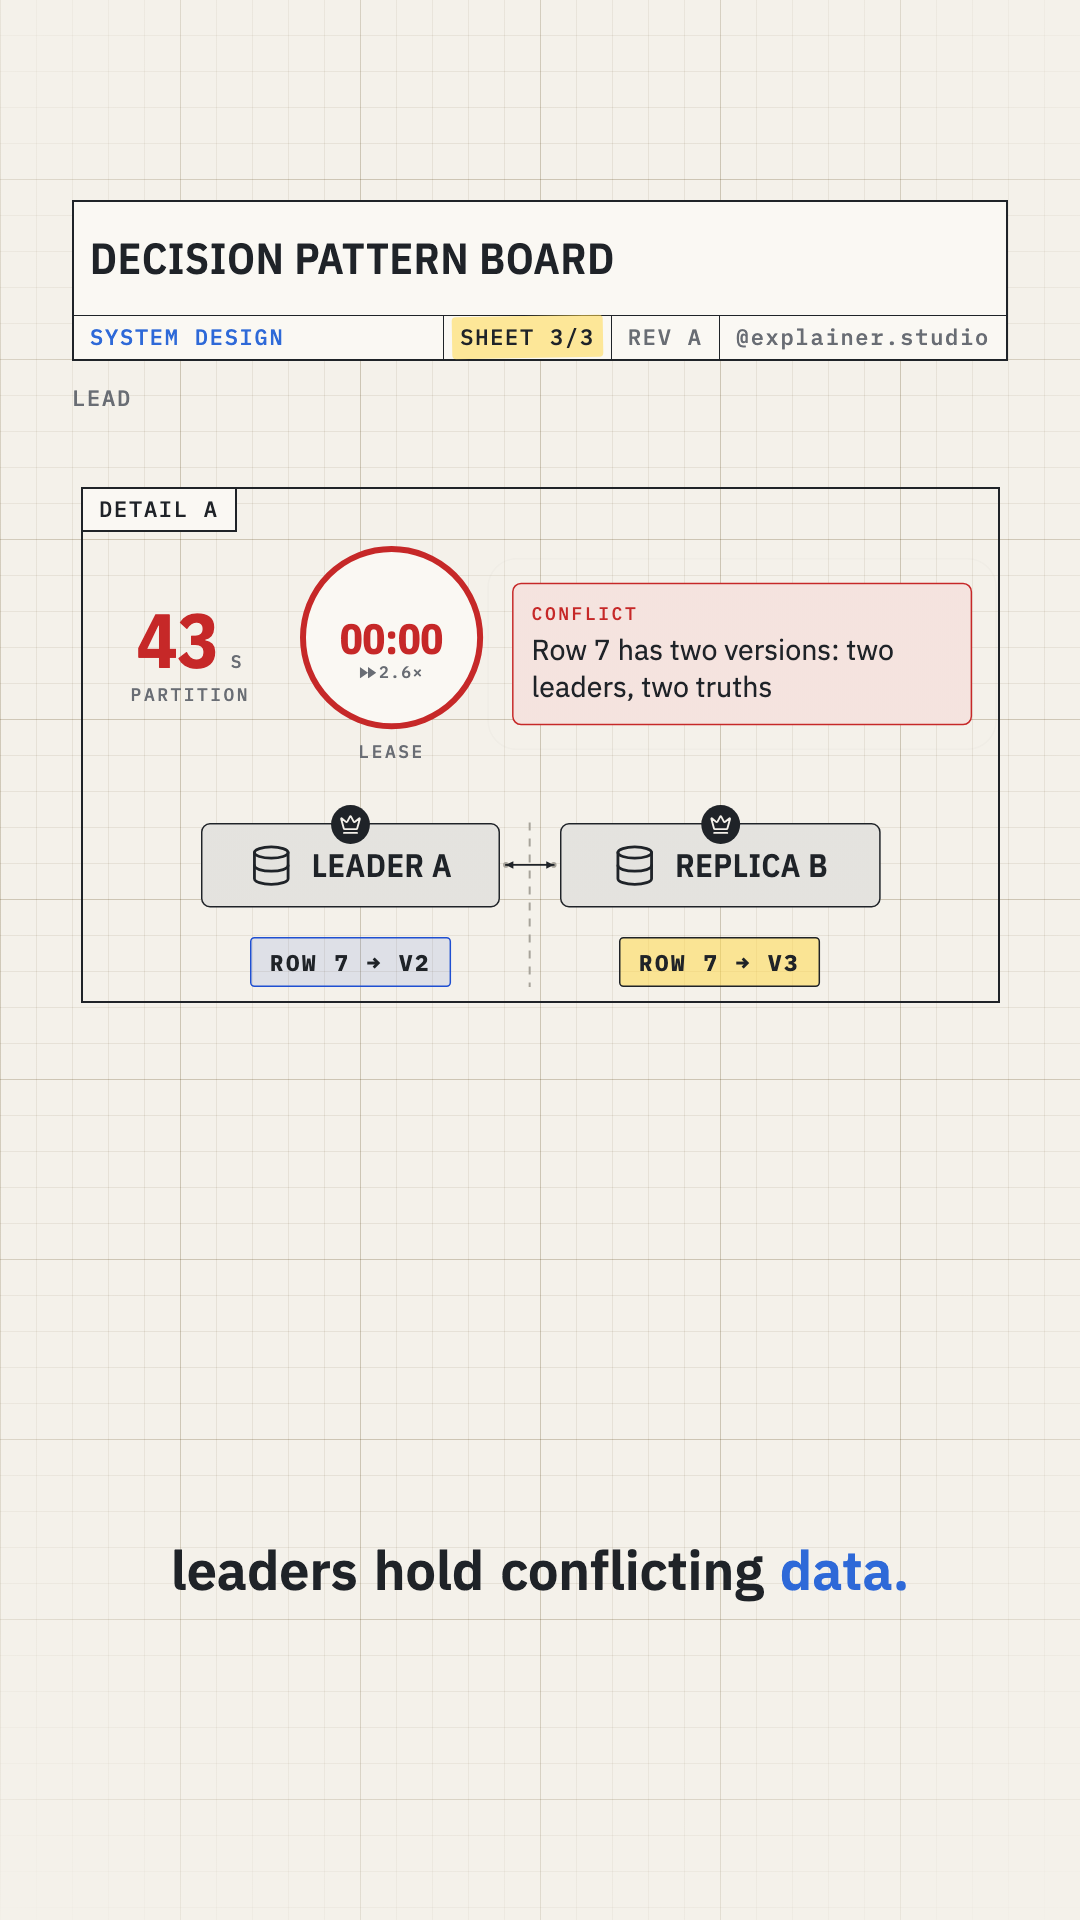
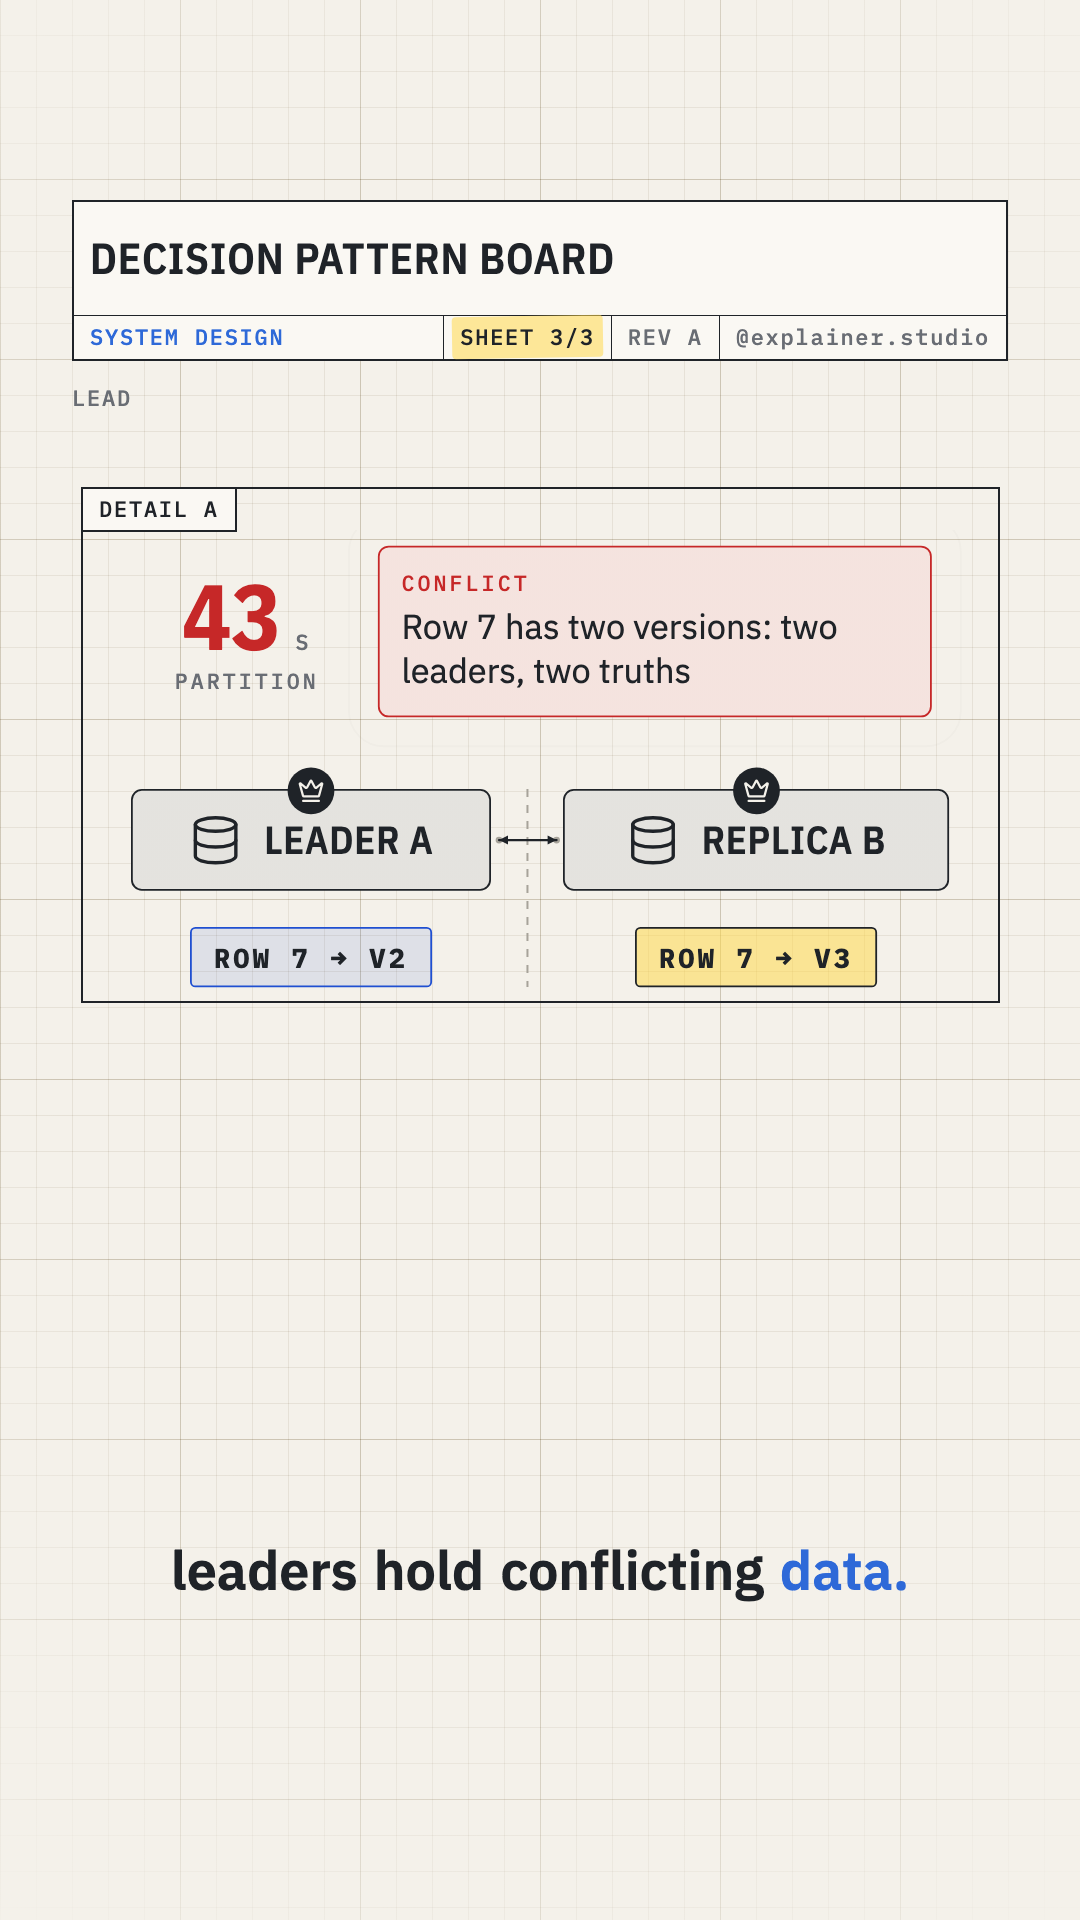
split_brain: card without lease
split_brain suits the card format when its optional lease timer is off, and is
full only with it (formatRule "the lease timer"). Measured on the decision
board: card scale 0.900 without the lease (no layout warnings) vs 0.747 with it
(below the 0.75 readable scale).

still:pattern-layouts draws a pattern whose board params do not suit a format
with its lighter variant (FORMAT_VARIANTS, checked to suit that format):
split_brain-layout-card.png now shows split_brain without the lease. Catalogue
regenerated; validation test for the rule.

Changed region(s): [[0.1222, 0.2812, 0.8861, 0.5312], [0.4278, 0.4062, 0.4583, 0.4375]]

diff --git a/packages/renderer/scripts/render-pattern-layout-stills.ts b/packages/renderer/scripts/render-pattern-layout-stills.ts
@@ -1,7 +1,11 @@
 import { mkdirSync } from 'node:fs';
 import { dirname, resolve } from 'node:path';
 import { fileURLToPath } from 'node:url';
-import { VIDEO_FORMATS } from '@explainer-studio/shared';
+import {
+  VIDEO_FORMATS,
+  type RenderableVideoSpec,
+  type VideoFormat,
+} from '@explainer-studio/shared';
 import { bundle } from '@remotion/bundler';
 import { renderStill, selectComposition } from '@remotion/renderer';
 import {
@@ -12,6 +16,7 @@ import {
 } from '../fixtures/index.ts';
 import { DEFAULT_REGISTRIES } from '../src/catalog/registries.ts';
 import { listPatterns } from '../src/patterns/registry.ts';
+import { patternFormats } from '../src/patterns/types.ts';
 import { settledPatternFrame } from '../src/stills/pattern-sheet.ts';
 
 /**
@@ -19,7 +24,42 @@ import { settledPatternFrame } from '../src/stills/pattern-sheet.ts';
  * as arguments), in both formats: the pattern's beat on its pattern board through the real layout
  * engine (`VideoFromSpec` → `BeatScene`: placement, camera, routing, HUD), at its settled moment
  * (`settledPatternFrame`). The per-anchor sheets (`still:patterns`) stay the record of timing.
+ *
+ * A pattern whose board params do not suit a format (`formatRule`) is drawn in that format with
+ * its lighter variant from `FORMAT_VARIANTS` when there is one (checked to suit the format), so the
+ * still shows the pattern as it would be used there; otherwise as is, with a note.
  */
+
+type Params = Record<string, unknown>;
+
+/** Lighter params per pattern and format, for formats the board's params do not suit. */
+const FORMAT_VARIANTS: Record<string, Partial<Record<VideoFormat, (p: Params) => Params>>> = {
+  split_brain: { card: ({ lease: _lease, ...rest }) => rest },
+};
+
+/** The spec with the pattern's params swapped for its variant in this format, if it needs one. */
+function forFormat(spec: RenderableVideoSpec, patternId: string, format: VideoFormat) {
+  const definition = DEFAULT_REGISTRIES.patterns.get(patternId);
+  const variant = FORMAT_VARIANTS[patternId]?.[format];
+  const scenes = spec.scenes.map((scene) => ({
+    ...scene,
+    patterns: scene.patterns.map((instance) => {
+      if (instance.pattern !== patternId || !definition) return instance;
+      const parsed = definition.paramsSchema.parse(instance.params);
+      if (patternFormats(definition, parsed).includes(format)) return instance;
+      if (!variant) {
+        console.warn(`${patternId} does not suit ${format}; drawn as is.`);
+        return instance;
+      }
+      const params = variant(instance.params);
+      if (!patternFormats(definition, definition.paramsSchema.parse(params)).includes(format)) {
+        throw new Error(`The ${format} variant of ${patternId} does not suit ${format}.`);
+      }
+      return { ...instance, params };
+    }),
+  }));
+  return { ...spec, scenes };
+}
 
 const packageRoot = resolve(dirname(fileURLToPath(import.meta.url)), '..');
 const outDir = resolve(packageRoot, '../../docs/patterns');
@@ -42,18 +82,18 @@ const serveUrl = await bundle({
 mkdirSync(outDir, { recursive: true });
 for (const format of VIDEO_FORMATS) {
   for (const board of patternBoardSpecs) {
-    const spec = withFormat(board, format);
-    const inputProps = {
-      spec,
-      series: fixtureSeries,
-      audioSrc: null,
-      channelHandle: fixtureChannelHandle,
-      fps: FPS,
-    };
-    const composition = await selectComposition({ serveUrl, id: 'VideoFromSpec', inputProps });
     for (const patternId of ids) {
+      const spec = forFormat(withFormat(board, format), patternId, format);
       const settled = settledPatternFrame(spec, patternId, FPS, DEFAULT_REGISTRIES);
       if (!settled) continue;
+      const inputProps = {
+        spec,
+        series: fixtureSeries,
+        audioSrc: null,
+        channelHandle: fixtureChannelHandle,
+        fps: FPS,
+      };
+      const composition = await selectComposition({ serveUrl, id: 'VideoFromSpec', inputProps });
       const output = resolve(outDir, `${patternId}-layout-${format}.png`);
       await renderStill({
         serveUrl,

diff --git a/packages/renderer/src/catalog/validate.test.ts b/packages/renderer/src/catalog/validate.test.ts
@@ -682,6 +682,17 @@ describe('pattern formats', () => {
     expect(patternFormats(pool, three)).toEqual(['full']);
   });
 
+  it('allows split_brain in the card format only without its lease timer', () => {
+    const split = DEFAULT_REGISTRIES.patterns.get('split_brain');
+    if (!split) throw new Error('split_brain is registered');
+    const withLease = split.paramsSchema.parse(split.example.params) as Record<string, unknown>;
+    expect(withLease.lease).toBeDefined();
+    expect(patternFormats(split, withLease)).toEqual(['full']);
+    const withoutLease = { ...withLease };
+    delete withoutLease.lease;
+    expect(patternFormats(split, withoutLease)).toEqual(['full', 'card']);
+  });
+
   it('every pattern declares the formats it suits', () => {
     for (const p of listPatterns()) expect(p.formats.length).toBeGreaterThan(0);
   });

diff --git a/packages/renderer/src/patterns/split-brain/definition.ts b/packages/renderer/src/patterns/split-brain/definition.ts
@@ -57,7 +57,8 @@ export const splitBrainPattern = definePattern({
     at: anchorsSchema(ANCHORS),
   }),
   actions: ['exit', 'highlight', 'dim', 'pulse'],
-  formats: ['full'],
+  formats: ['full', 'card'],
+  formatRule: { when: 'the lease timer', formats: ['full'], applies: (p) => p.lease !== undefined },
   anchors: ANCHORS,
   targets: [
     { id: 'leader', description: 'The leader.' },

diff --git a/CLAUDE.md b/CLAUDE.md
@@ -234,7 +234,9 @@ to `docs/patterns/<id>.png` (a panel per narration anchor, elements in one row p
 `… still:layouts` renders `docs/layouts/<mode>-<format>.png` from the layout board;
 `… still:pattern-layouts [ids…]` renders `docs/patterns/<id>-layout-<format>.png`: each pattern's
 beat through the real layout engine (placement, camera, routing) at its settled moment
-(`settledPatternFrame`), in both formats. The per-anchor sheets stay the record of timing.
+(`settledPatternFrame`), in both formats; a pattern whose board params do not suit a format is
+drawn with its lighter variant from the script's `FORMAT_VARIANTS` (e.g. `split_brain` without
+its lease in card). The per-anchor sheets stay the record of timing.
 
 - **Themes** live in `src/theme` and are registered by id (`getTheme`, `listThemes`;
   default `drafting-paper`, a light engineering-drawing look). Each is validated against

diff --git a/docs/catalogue.md b/docs/catalogue.md
@@ -1999,7 +1999,7 @@ Two regions with a leader and a replica. The link breaks (red, then dashed) and 
 
 **Layout mode:** `versus_split`
 
-**Formats:** `full`
+**Formats:** `full`, `card` (`full` only with the lease timer)
 
 **Narration anchors** (`params.at`):
 
